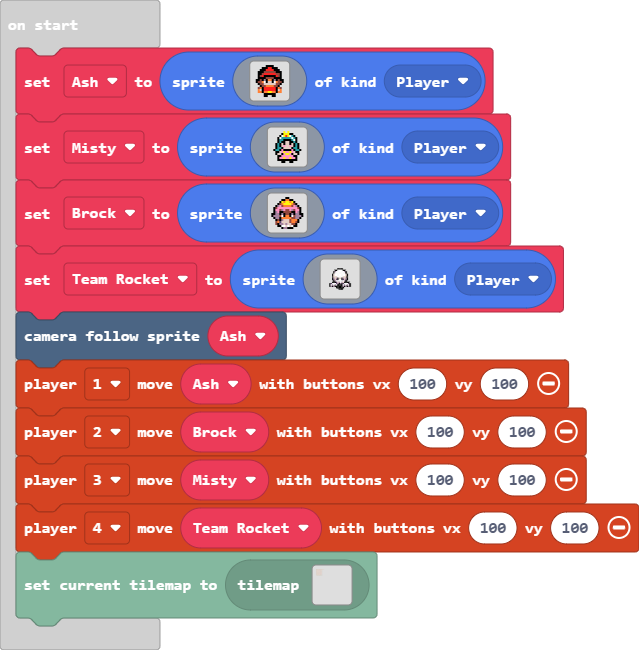
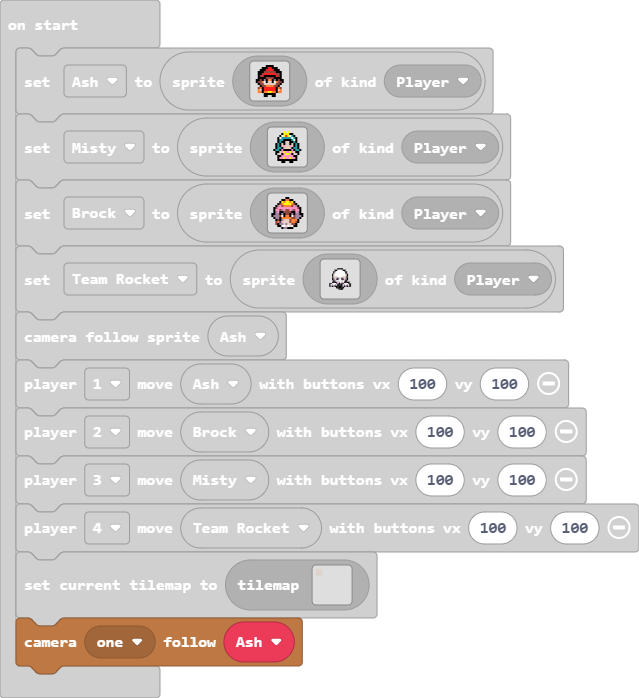
Update main.blocks, main.ts

diff --git a/main.ts b/main.ts
@@ -87,3 +87,4 @@ controller.player2.moveSprite(Brock, 100, 100)
 controller.player3.moveSprite(Misty, 100, 100)
 controller.player4.moveSprite(Team_Rocket, 100, 100)
 tiles.loadMap(tiles.createMap(tilemap`level1`))
+splitScreen.cameraFollowSprite(splitScreen.Camera.Camera1, Ash)
